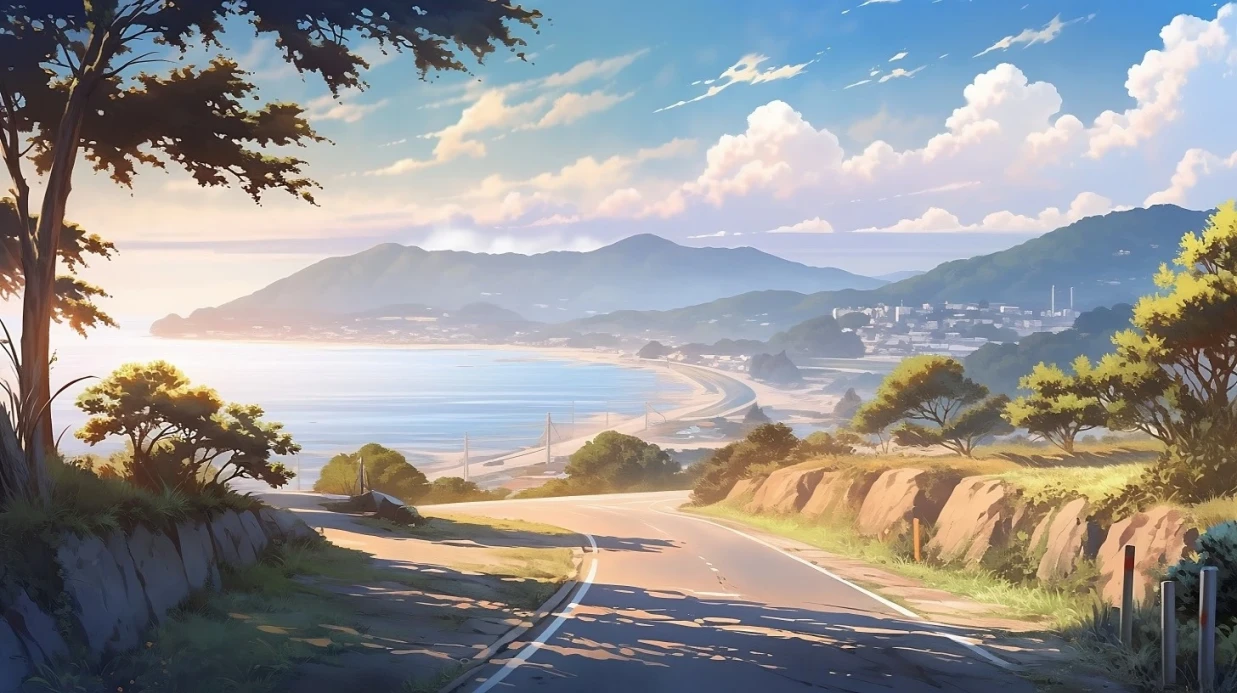
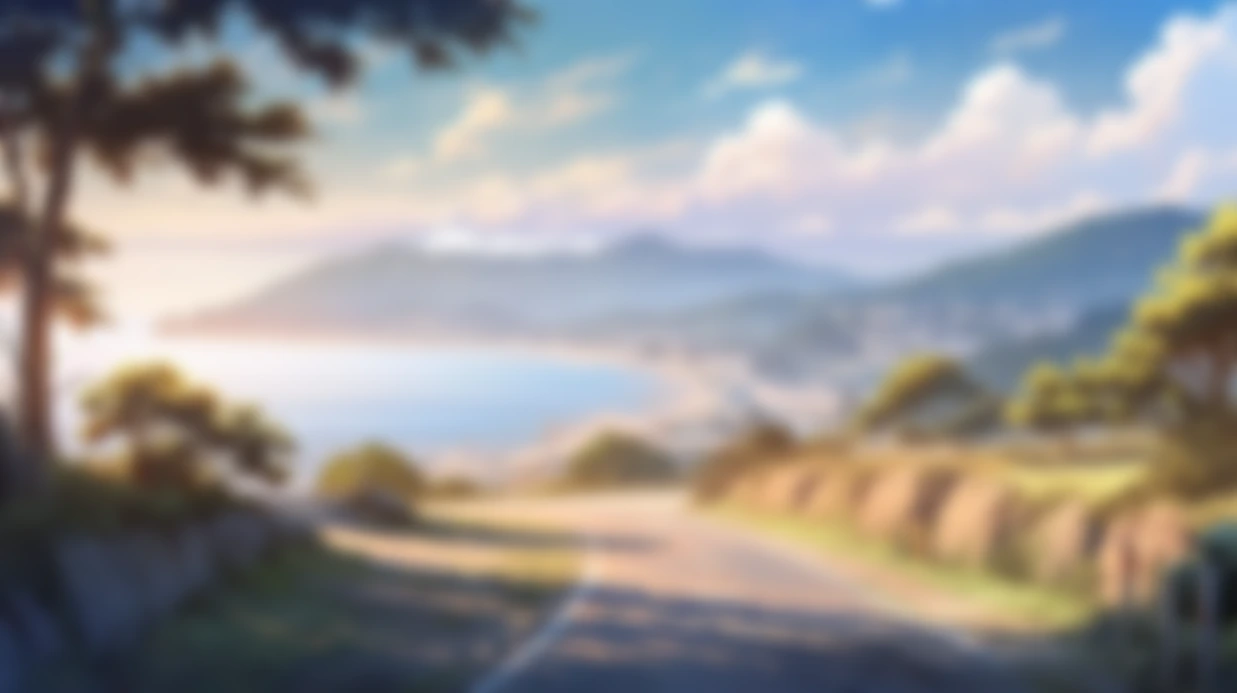
`add`

diff --git a/style/main.css b/style/main.css
@@ -11,6 +11,7 @@ body {
   scroll-behavior: smooth;
   -ms-overflow-style: none;
   scrollbar-width: none;
+  transition: background-color 0.65s cubic-bezier(.18, .61, .68, .12), opacity 0.65s cubic-bezier(.18, .61, .68, .12);
 }
 
 body::-webkit-scrollbar {
@@ -31,8 +32,6 @@ body::-webkit-scrollbar {
 }
 
 .bg-image {
-  filter: blur(var(--background-blur-factor));
-  -webkit-filter: blur(var(--background-blur-factor));
   height: 100vh;
   width: 100%;
   background-image: var(--background-img);
@@ -43,7 +42,7 @@ body::-webkit-scrollbar {
   position: absolute;
   top: 0;
   left: 0;
-  z-index: 0;
+  z-index: -1;
   transition: background-image 0.65s cubic-bezier(.18, .61, .68, .12), opacity 0.65s cubic-bezier(.18, .61, .68, .12);
 }
 

diff --git a/index.html b/index.html
@@ -19,6 +19,8 @@
   </head>
 
   <body>
+    <div class="blurred"></div>
+
     <div class="bg-image"></div>
     <div class="page-content">
       <button

diff --git a/style/themebutton.css b/style/themebutton.css
@@ -10,7 +10,6 @@
 }
 
 #theme-icon {
-  color: var(--theme-icon-yellow);
   width: 1.5em;
 }
 
